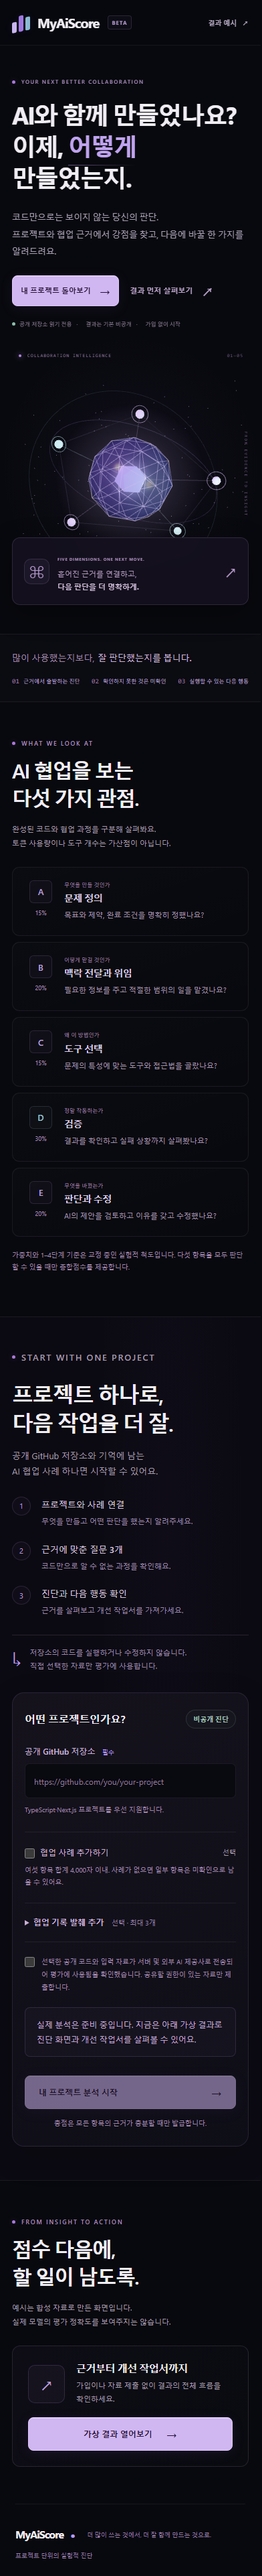
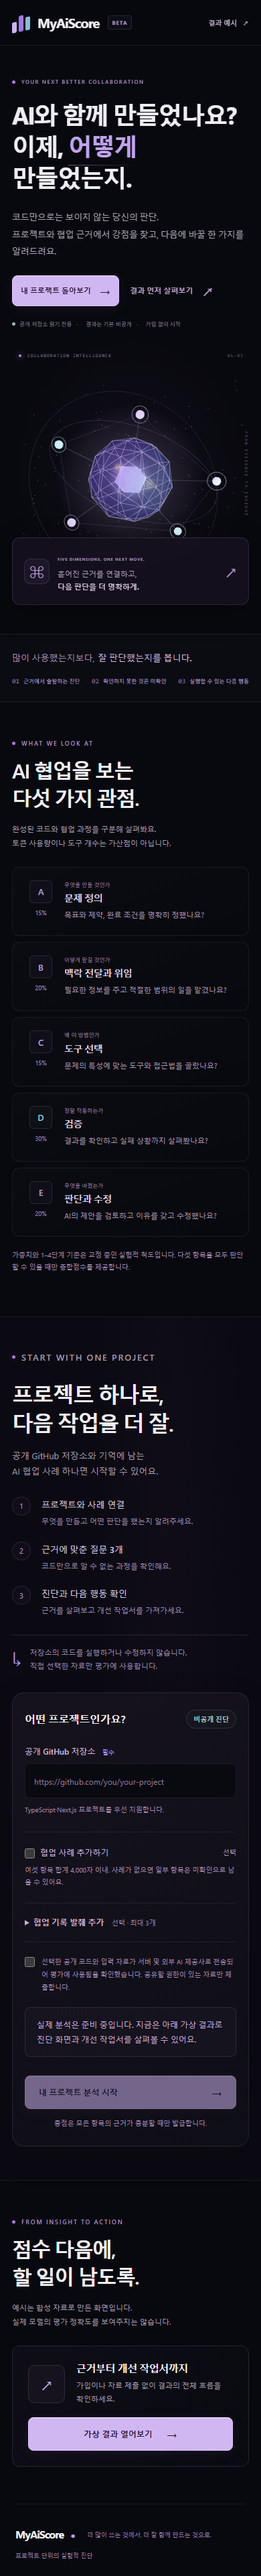
fix: contain hero glow within narrow viewports (#5)

diff --git a/tests/browser/experience.spec.ts b/tests/browser/experience.spec.ts
@@ -27,6 +27,7 @@ test('landing and real synthetic example render without a model key', async ({ p
   const errors: string[] = []; page.on('pageerror', error => errors.push(error.message));
   await page.goto('/');
   await expect(page.getByRole('heading', { name: /AI와 함께 만들었나요/ })).toBeVisible();
+  expect(await page.evaluate(() => document.documentElement.scrollWidth <= window.innerWidth)).toBeTruthy();
   await page.getByRole('button', { name: /결과 먼저 살펴보기/ }).click();
   await expect(page.locator('#example')).toContainText('가상');
   await expect(page.locator('#example')).toContainText('개선');

diff --git a/src/app/globals.css b/src/app/globals.css
@@ -224,6 +224,7 @@ input::placeholder, textarea::placeholder { color: #917a9a; }
   .hero-description { font-size: 13px; }
   .hero-trust { font-size: 8px; }
   .hero-visual { width: 100%; max-width: 490px; height: 440px; }
+  .hero-visual:before { left: 0; right: 0; }
   .hero-scene { height: 440px; }
   .hero-insight { left: 8px; right: 8px; bottom: 16px; padding: 17px; }
   .hero-insight p { font-size: 12px; }
